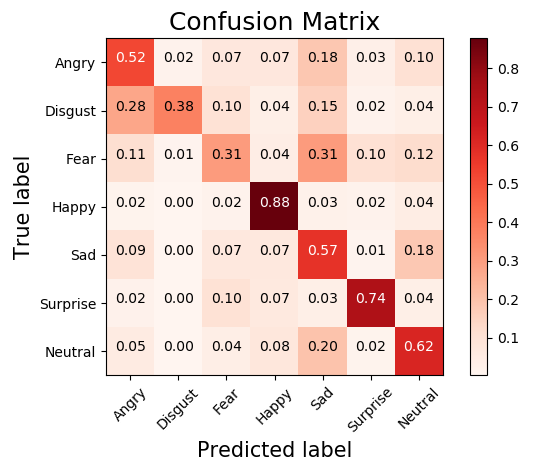
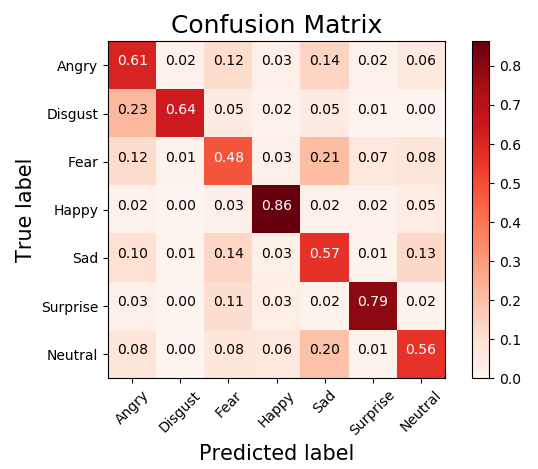
end

Changed region(s): [[0.0595, 0.0302, 0.9814, 0.9957], [0.0, 0.3319, 0.0595, 0.5733]]

diff --git a/train_cnn.py b/train_cnn.py
@@ -121,10 +121,10 @@ def _adjust_lr(optimizer, init_lr, epoch_num, decay=0.6, step_size=2):
 
 if __name__ == "__main__":
     parser = argparse.ArgumentParser()
-    parser.add_argument('--init_lr', type=float, default=0.002)
+    parser.add_argument('--init_lr', type=float, default=0.001)
     parser.add_argument('--batch_size', type=int, default=32)
     parser.add_argument('--epochs', type=int, default=20)
-    parser.add_argument('--model', type=str, default="resnet18")
+    parser.add_argument('--model', type=str, default="netC")
     parser.add_argument('--pretrained', type=bool, default=True)
     parser.add_argument('--train_dir', type=str, default="./dataset/images/train")
     parser.add_argument('--val_dir', type=str, default="./dataset/images/val")
@@ -132,28 +132,11 @@ if __name__ == "__main__":
     parser.add_argument('--out_dir', type=str, default="./results")
     args = parser.parse_args()
 
-    if(args.model == "netA"):
-        model = NetA()
-        data_transform = transforms.Compose([    
+    data_transform1 = transforms.Compose([    
             transforms.ToTensor(),
             transforms.Grayscale(),
         ])
-    elif(args.model == "netB"):
-        model = NetB()
-        data_transform = transforms.Compose([    
-            transforms.ToTensor(),
-            transforms.Grayscale(),
-        ])
-    elif(args.model == "netC"):
-        model = NetC(util.get_pca_model(args.train_dir, D=256))
-        data_transform = transforms.Compose([    
-            transforms.ToTensor(),
-            transforms.Grayscale(),
-        ])
-    elif(args.model == "resnet18"):
-        model = models.resnet18(pretrained=args.pretrained)
-        model.fc = nn.Linear(model.fc.in_features, 7)
-        data_transform = transforms.Compose([  
+    data_transform2 = transforms.Compose([  
             transforms.ToTensor(),
             transforms.Resize(224),
             transforms.Normalize(mean=[0.485, 0.456, 0.406],
@@ -161,8 +144,21 @@ if __name__ == "__main__":
             transforms.RandomHorizontalFlip(),
             transforms.RandomRotation(20)
         ])
-        # if(args.pretrained):
-        #     # frozen feature extraction layers
+
+    if(args.model == "netA"):
+        model = NetA()
+        data_transform = data_transform1
+    elif(args.model == "netB"):
+        model = NetB()
+        data_transform = data_transform1
+    elif(args.model == "netC"):
+        model = NetC(util.get_pca_model(args.train_dir, D=256))
+        data_transform = data_transform1
+    elif(args.model == "resnet18"):
+        model = models.resnet18(pretrained=args.pretrained)
+        model.fc = nn.Linear(model.fc.in_features, 7)
+        data_transform = data_transform2
+        # if(args.pretrained): # frozen feature extraction layers
         #     for param in model.parameters():
         #         param.requires_grad = False
         #     for param in model.fc.parameters():
@@ -171,16 +167,8 @@ if __name__ == "__main__":
         model = models.vgg19(pretrained=args.pretrained)
         model.classifier = nn.Sequential(*list(model.children())[-1][:4])
         model.classifier[-1].out_features = 7 
-        data_transform = transforms.Compose([  
-            transforms.ToTensor(),
-            transforms.Resize(224),
-            transforms.Normalize(mean=[0.485, 0.456, 0.406],
-                                std=[0.229, 0.224, 0.225]),
-            transforms.RandomHorizontalFlip(),
-            transforms.RandomRotation(20)
-        ])
-        if(args.pretrained):
-            # frozen feature extraction layers
+        data_transform = data_transform2
+        if(args.pretrained): # frozen feature extraction layers
             for param in model.features.parameters():
                 param.requires_grad = False
 

diff --git a/test_cnn.py b/test_cnn.py
@@ -65,43 +65,35 @@ if __name__ == "__main__":
     parser.add_argument('--out_dir', type=str, default="./results")
     args = parser.parse_args()
 
-    if(args.model == "netA"):
-        model = NetA()
-        data_transform=transforms.Compose([  
-            transforms.ToTensor(),
-            transforms.Grayscale()
-            ])
-    elif(args.model == "netB"):
-        model = NetB()
-        data_transform=transforms.Compose([  
-            transforms.ToTensor(),
-            transforms.Grayscale()
-            ])
-    elif(args.model == "netC"):
-        model = NetC(util.get_pca_model(args.train_dir, D=256))
-        data_transform = transforms.Compose([    
+    data_transform1 = transforms.Compose([    
             transforms.ToTensor(),
             transforms.Grayscale(),
         ])
-    elif(args.model == "resnet18"):
-        model = models.resnet18()
-        model.fc = nn.Linear(model.fc.in_features, 7)
-        data_transform=transforms.Compose([  
+    data_transform2 = transforms.Compose([  
             transforms.ToTensor(),
             transforms.Resize(224),
             transforms.Normalize(mean=[0.485, 0.456, 0.406],
-                                std=[0.229, 0.224, 0.225])
-            ])
+                                std=[0.229, 0.224, 0.225]),
+        ])
+
+    if(args.model == "netA"):
+        model = NetA()
+        data_transform = data_transform1
+    elif(args.model == "netB"):
+        model = NetB()
+        data_transform = data_transform1
+    elif(args.model == "netC"):
+        model = NetC(util.get_pca_model(args.train_dir, D=256))
+        data_transform = data_transform1
+    elif(args.model == "resnet18"):
+        model = models.resnet18()
+        model.fc = nn.Linear(model.fc.in_features, 7)
+        data_transform = data_transform2
     elif(args.model == "vgg19"):
         model = models.vgg19()
         model.classifier = nn.Sequential(*list(model.children())[-1][:4])
         model.classifier[-1].out_features = 7
-        data_transform=transforms.Compose([  
-            transforms.ToTensor(),
-            transforms.Resize(224),
-            transforms.Normalize(mean=[0.485, 0.456, 0.406],
-                                std=[0.229, 0.224, 0.225])
-            ])
+        data_transform = data_transform2
 
 
     model = model.to(device)

diff --git a/demo.py b/demo.py
@@ -7,10 +7,13 @@ from net import *
 import util
 import cv2
 
-def what_is_expression():
+"""
+A simple demo for predicting expression given an image
+"""
+def what_is_expression(img_dir, model_name):
     model = models.resnet18()
     model.fc = nn.Linear(model.fc.in_features, 7)
-    util.load_model(model, './models', 'resnet18')
+    util.load_model(model, './models', model_name)
 
     data_transform=transforms.Compose([  
         transforms.ToTensor(),
@@ -18,7 +21,7 @@ def what_is_expression():
         transforms.Normalize(mean=[0.485, 0.456, 0.406],
                             std=[0.229, 0.224, 0.225])
         ])
-    img = cv2.imread("./dataset/demo_test2.jpg")
+    img = cv2.imread(img_dir)
     img = cv2.cvtColor(img, cv2.COLOR_BGR2RGB)
     img = data_transform(img)
     img = torch.stack([img], dim=0)
@@ -33,5 +36,6 @@ def what_is_expression():
     plt.ylabel("Probability")
     plt.show()
 
+
 if __name__ == "__main__":
-    what_is_expression()
+    what_is_expression("./dataset/demo_test2.jpg", "resnet18")

diff --git a/generate_data.py b/generate_data.py
@@ -69,5 +69,5 @@ def generate_test_images():
         
 
 if __name__ == "__main__":
-    # generate_train_images()
+    generate_train_images()
     generate_test_images()

diff --git a/svm.py b/svm.py
@@ -10,7 +10,7 @@ import time
 
 from feature_extraction import *
 
-# sift_bof parameters
+# sift_bof
 K = 15
 BATCH_SIZE = 256
 MAX_ITER = 1000

diff --git a/README.md b/README.md
@@ -1,1 +1,10 @@
 # MLProject: Human Face Expression Recognition
+
+## Prerequisite
+
+1. Download FER2013 dataset from [kaggle](https://www.kaggle.com/c/challenges-in-representation-learning-facial-expression-recognition-challenge) and put `train.csv` `test.csv` under `./dataset`. Note that you need to manually add label column in `test.csv`.
+2. Then run `python generate_data.py`, which will create training, validation and test images set under `./dataset/images`.
+
+## How to run
+- **SVM**: run `python svm.py`. Refer to the code to change some settings.
+- **CNN**: run `python train_cnn.py` to train. run `python test_cnn.py` to test. You can set your own arguments (please refer to the code). `demo.py` provides a simple demo to predict expression probability given an image.
